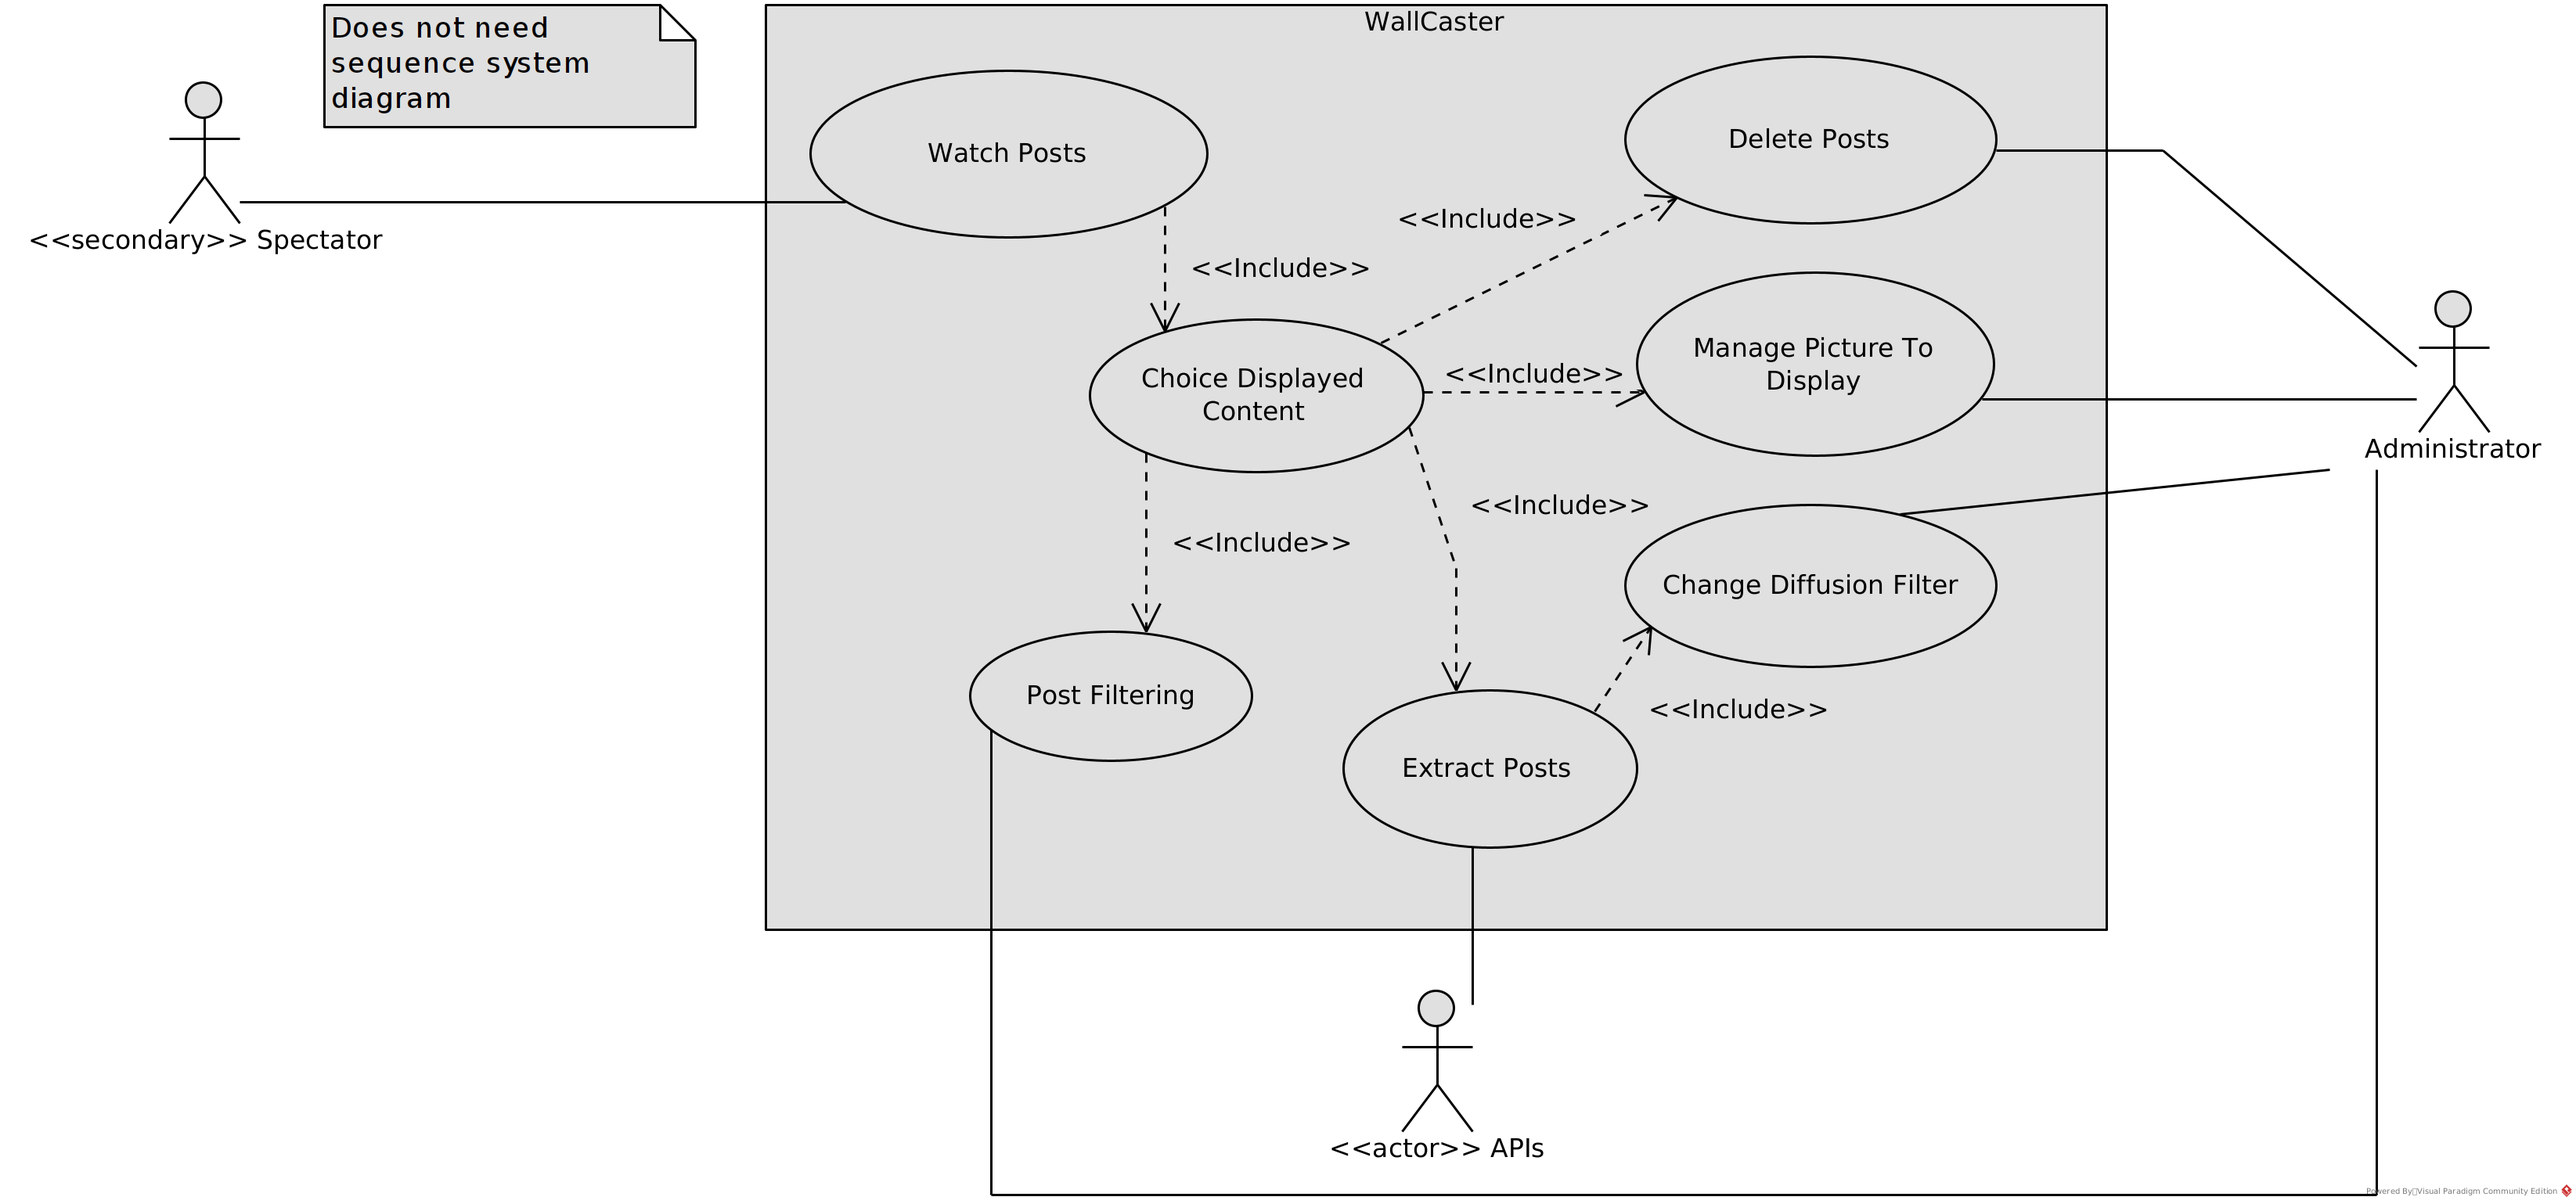
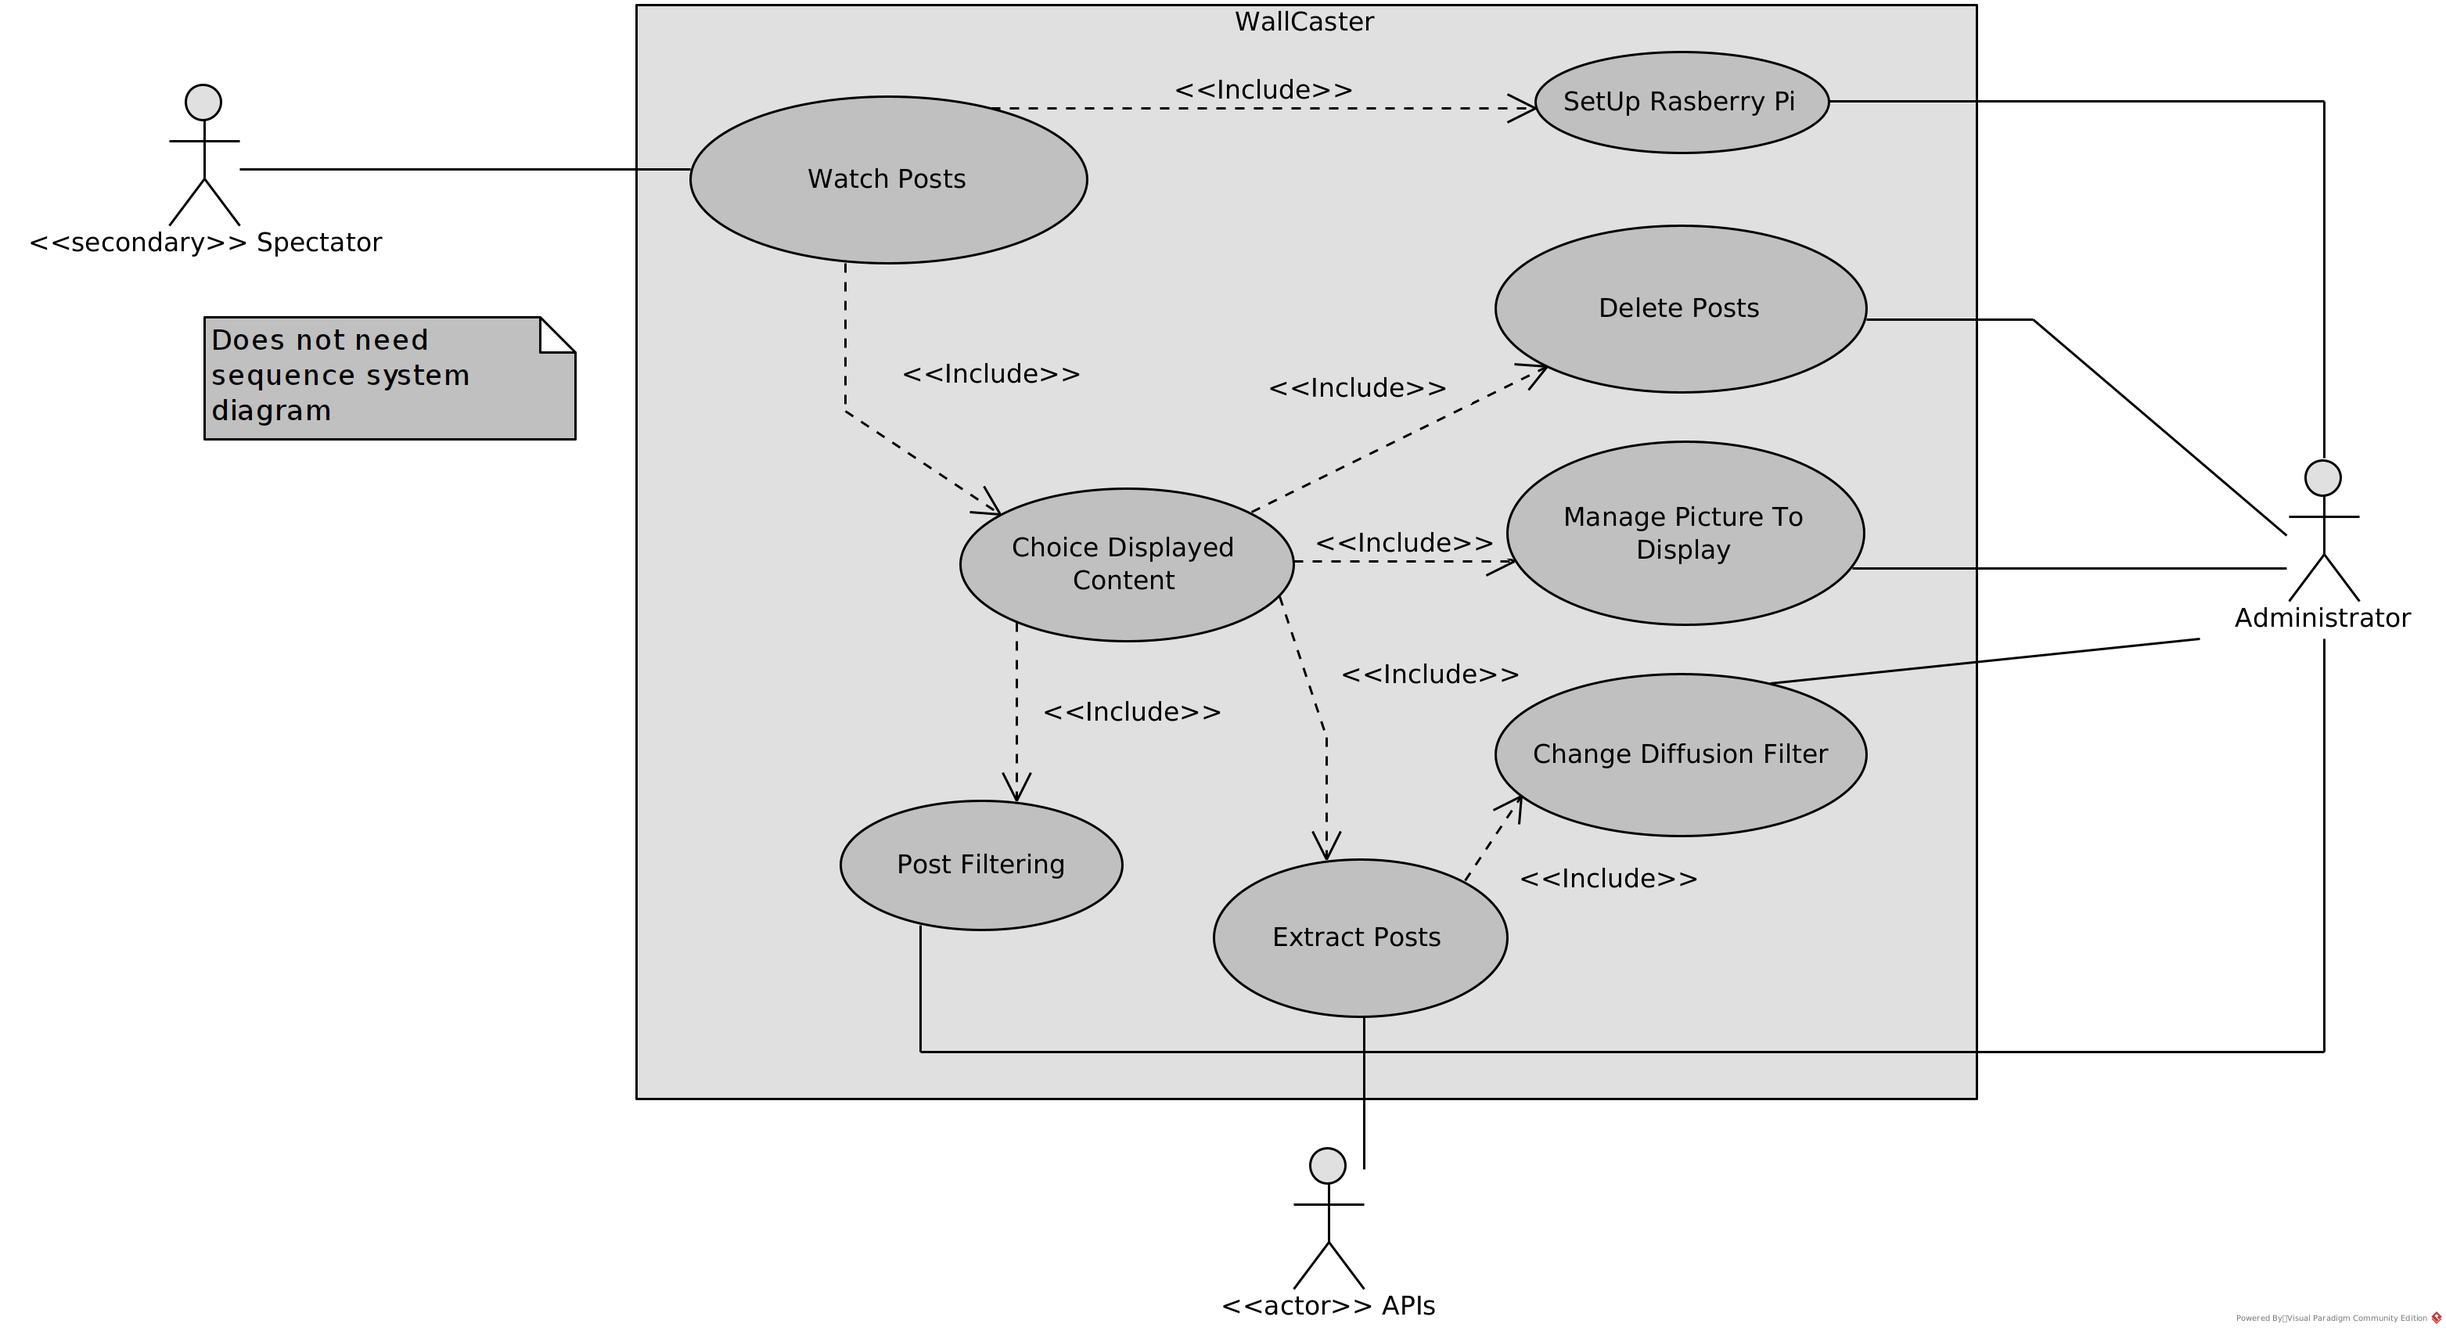
Add scenarii Manage Photos

diff --git a/doc/analisis-report.md b/doc/analisis-report.md
@@ -19,6 +19,7 @@
 - [3 - Description de l'écosystème : présentation des éléments avec lesquels le système va devoir s'intégrer, des contraintes à respecter](#3---description-de-lécosystème--présentation-des-éléments-avec-lesquels-le-système-va-devoir-sintégrer-des-contraintes-à-respecter)
 - [5 - Principe de solution : description externe de la solution proposée (le quoi, pas le comment)](#5---principe-de-solution--description-externe-de-la-solution-proposée-le-quoi-pas-le-comment)
 
+<br/>
 
 # 1 - Rappel du besoin et critères de succès
 
@@ -44,7 +45,9 @@
 - La deadline est respectée
 - Le software fonctionne correctement (pas de bogues)
 - Les critères de test sont validés
-  
+
+<br/>
+
 # 2 - Modèle du domaine métier : modèle UML des notions manipulées, relations et explications
 
 ## 2.1 - Use case diagram
@@ -54,6 +57,8 @@
 ## 2.2 - Diagrame de Séquence Système
 
 ### 2.2.1 - Manage photos
+
+<br/>
 
 - Scenario Nominatif
 
@@ -70,6 +75,8 @@ sequenceDiagram
   Admin ->> S : Quitte la page d'administration
 ```
 
+<br/>
+
 - Scenario alternatif
 
 ```mermaid
@@ -83,6 +90,8 @@ sequenceDiagram
   S ->> Admin : Suppression réussi
   Admin ->> S : Quitte la page d'administration
 ```
+
+<br/>
 
 - Scenario exception : photo trop lourde
 
@@ -98,6 +107,8 @@ Admin -> S : Upload une photo à ajouter à la liste
 S --> Admin : L'upload a échoué l'image est trop lourde
 ```
 
+<br/>
+
 - Scenario exception : erreur de connexion
 
 ```mermaid
@@ -110,6 +121,9 @@ S --> Admin : Affiche la page d'administration
 Admin -> S : Upload une photo à ajouter à la liste
 S --> Admin : L'upload a échoué, erreur de connexion
 ```
+
+<br/>
+
 - Scenario exception : not found
 
 ```mermaid
@@ -125,6 +139,8 @@ Admin -> S : Quitte la page d'administration
 
 ```
 
+<br/>
+
 ### 2.2.2 - Extraire_Posts
 
 - Scenario Nominatif
@@ -139,6 +155,8 @@ APIs ->> Sys : Sends media contents asked by APIs
 
 ```
 
+<br/>
+
 - Scenario exception : authentification token expired
 
 ```mermaid
@@ -149,6 +167,8 @@ sequenceDiagram
 Sys -> APIs : Ask media contents
 APIs --> Sys : Authentification error, token out of date. No media contents send.
 ```
+
+<br/>
 
 - Scenario exception : no contents found
 
@@ -161,6 +181,8 @@ Sys -> APIs : Ask media contents
 APIs --> Sys : Error, no media contents found.
 ```
 
+<br/>
+
 - Scenario exception : connection error
 
 ```mermaid
@@ -171,6 +193,9 @@ sequenceDiagram
 Sys -> APIs : Ask media contents
 APIs --> Sys : Connection error. No media contents send.
 ```
+
+<br/>
+
 ### 2.2.3 - Filtrage des posts
 
 
@@ -186,6 +211,8 @@ sequenceDiagram
 
   W ->> A : Indique que la configuration a été enregistrée
 ```
+
+<br/>
 
 ### 2.2.4 - Sequence Supprimer post
 
@@ -255,6 +282,8 @@ sequenceDiagram
   W ->> A : Suppression effectuée
 ```
 
+<br/>
+
 ### 2.2.5 - Change Filtre Diffusion
 
 ```mermaid
@@ -315,7 +344,15 @@ Le scénario d'erreur envisagé est une erreur de connexion au serveur impliquan
 
 ### 2.3.1 - Manage photos
 
+<br/>
+The photographer give to the admin a list a pictures that he took. Now the admin want to display them on the screens. To do that he upload the images on the server and now either a picture or a post can be displayed by the system.
+Then, the administrator wants to remove one of the images. For that, he just need to remove it from the system.
+
+<br/>
+
 ### 2.3.2 - Extraire_Posts
+
+<br/>
 
 ### 2.3.3 - Filtrage des posts
 
@@ -323,7 +360,11 @@ Le scénario d'erreur envisagé est une erreur de connexion au serveur impliquan
 
 - As an admin I can manualy moderate content
 
+<br/>
+
 ### 2.3.4 - Sequence Supprimer post
+
+<br/>
 
 ### 2.3.5 - Change Filtre Diffusion
 
@@ -333,8 +374,7 @@ Le scénario d'erreur envisagé est une erreur de connexion au serveur impliquan
 
 - As an admin I can setup the raspberry pi to connect to the right wifi network so that it can access the website
 
-- As an admin I can choose to show different content on different screens
-
+<br/>
 
 # 3 - Description de l'écosystème : présentation des éléments avec lesquels le système va devoir s'intégrer, des contraintes à respecter
 
@@ -380,6 +420,7 @@ Notre système va devoir communiquer avec divers APIs de réseaux sociaux afin d
   - Contraintes : 
     - Avoir une connexion WiFi
 
+<br/>
 
 # 5 - Principe de solution : description externe de la solution proposée (le quoi, pas le comment)
 
